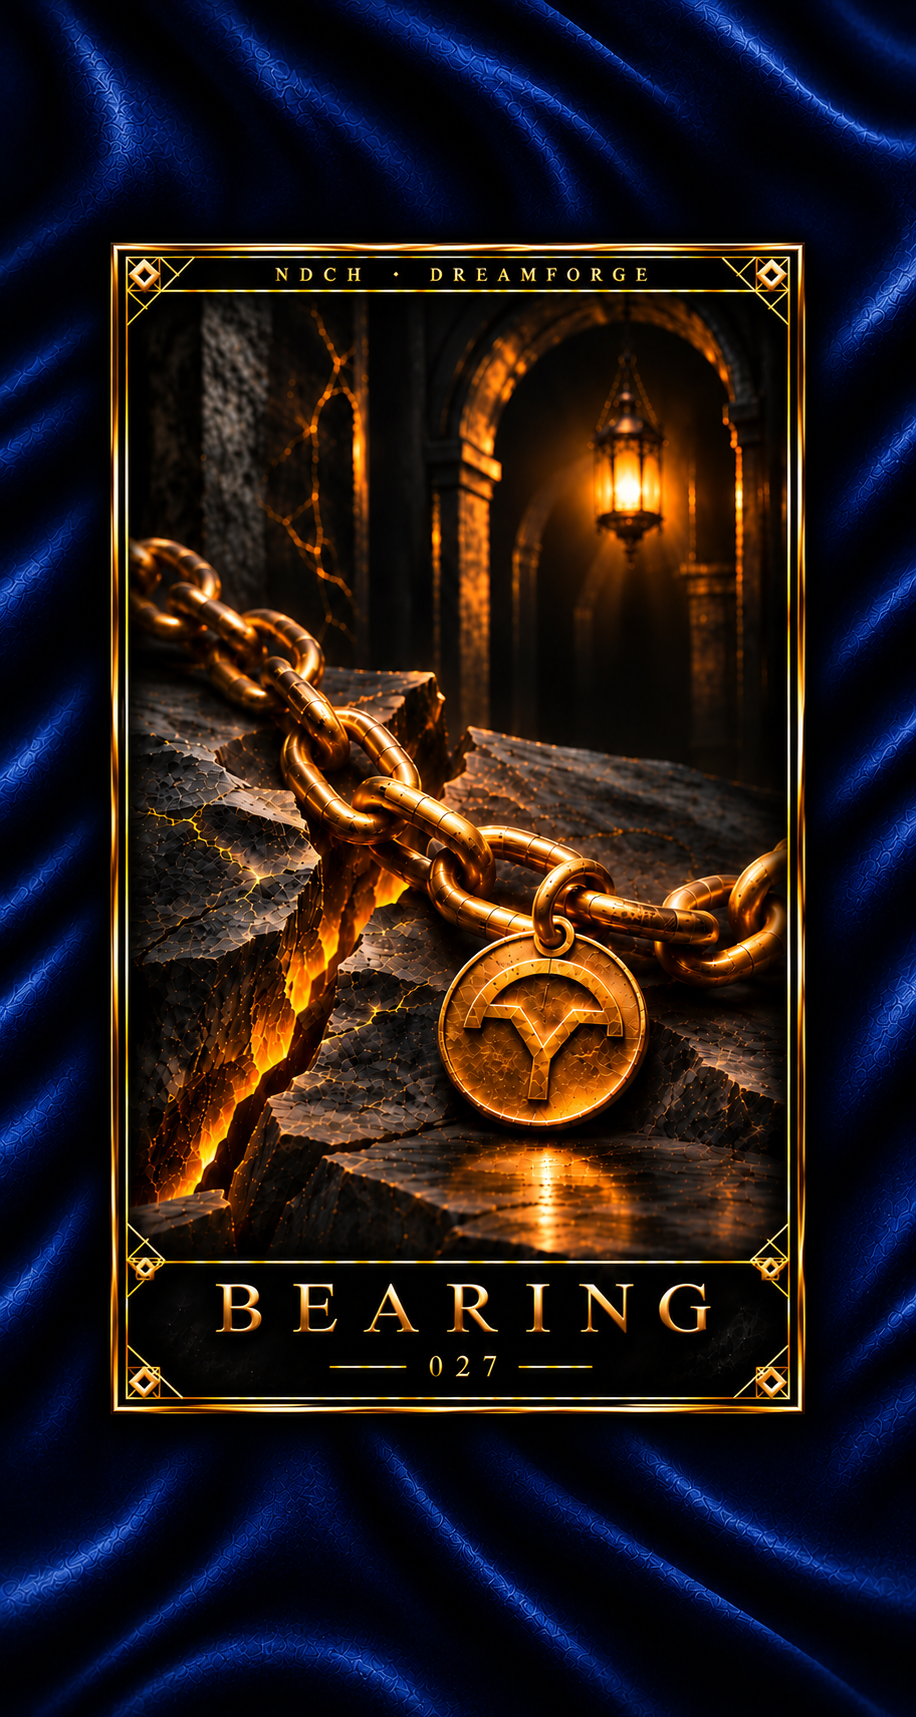
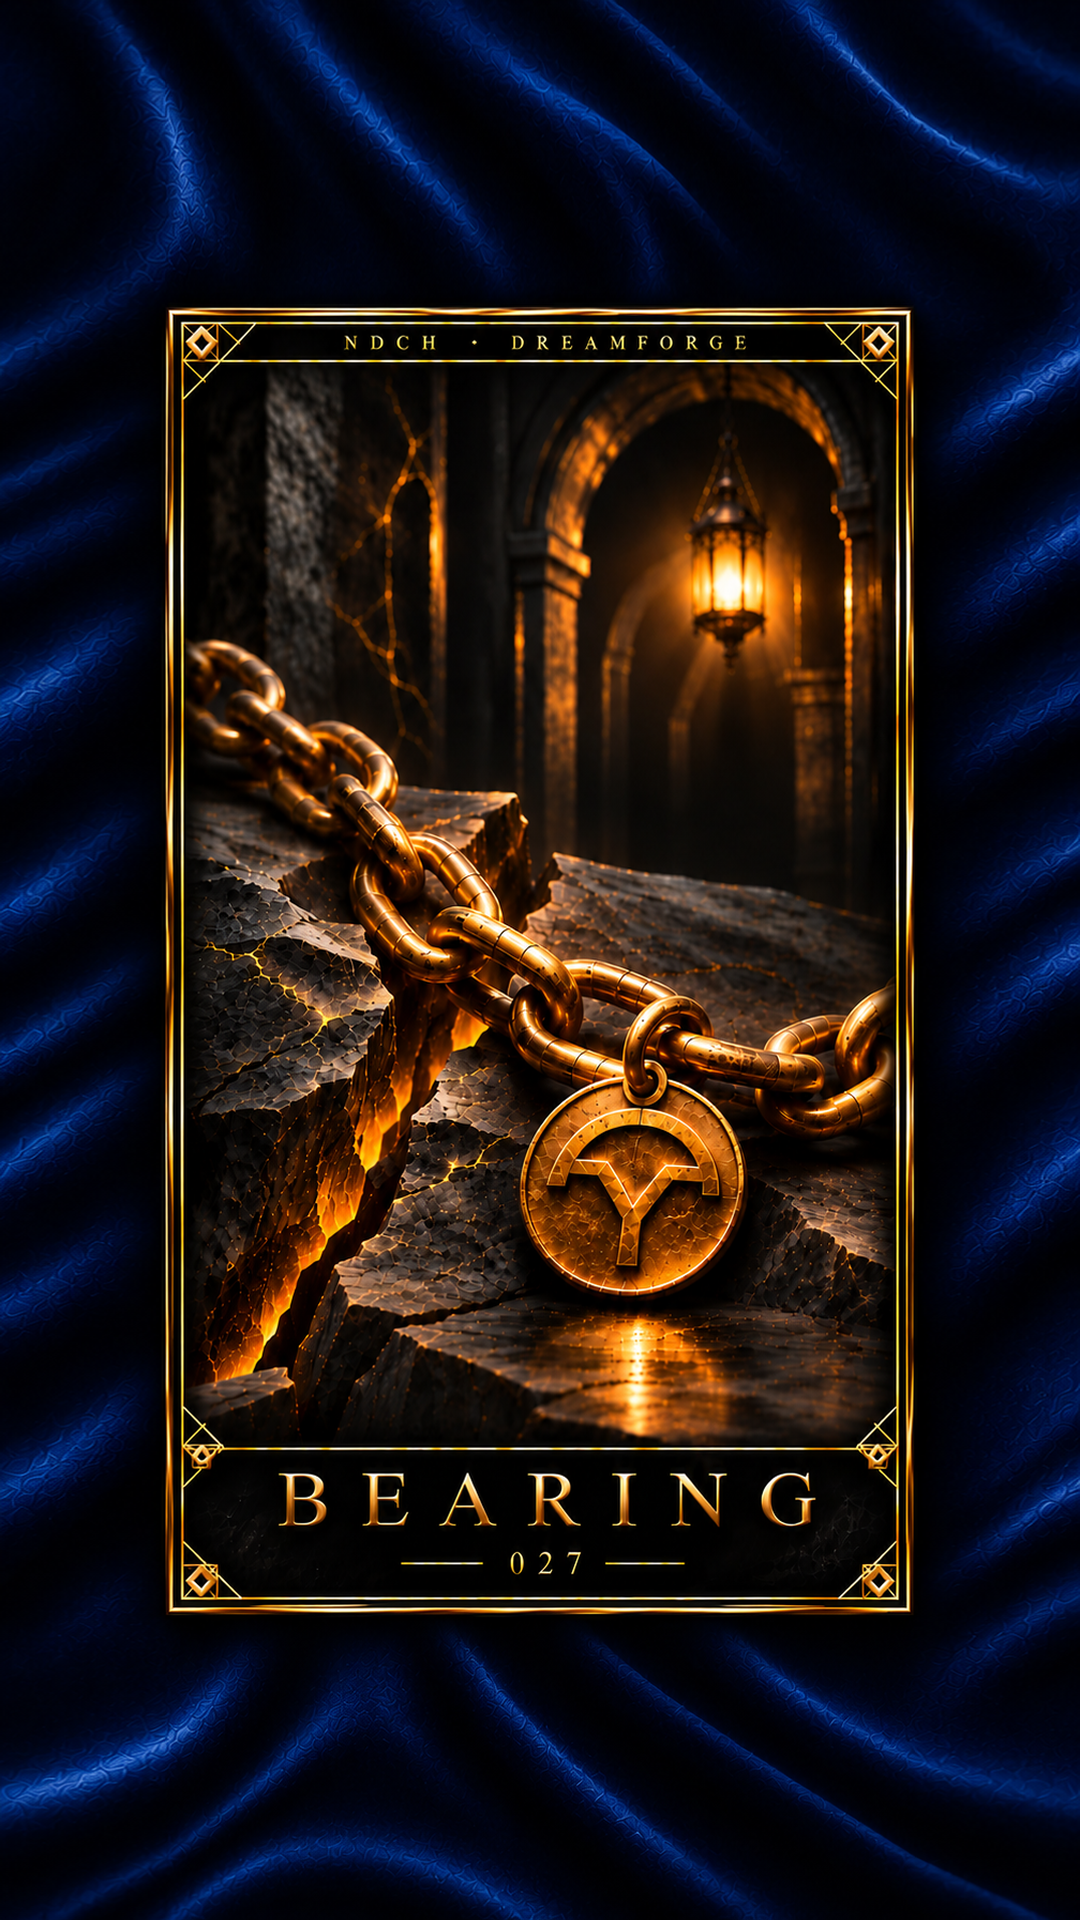
027 BEARING master cover (V2.0 geometry), gold-frame geometry check, symbol prompt (#227)
Claude-Session: https://claude.ai/code/session_018B2Xkx99ojEt22DjChFVnu

diff --git a/scripts/cover_geometry.py b/scripts/cover_geometry.py
@@ -6,8 +6,8 @@ Y 307-1613, fully inside the 1080x1440 grid-safe area.
 
     python3 scripts/cover_geometry.py assets/covers/030_RECEPTION_vertical.png [...]
 
-The plaque is found as the region where the blue velvet stops, measured on a 1080x1920 resample of
-the file. Exit code 0 when every file passes, 1 otherwise. Works on blue-velvet covers only.
+The plaque is measured by its outer gold frame lines (the outermost columns and rows that are gold
+along most of their length), on a 1080x1920 resample of the file. Exit code 0 when every file passes.
 """
 import json, sys
 from pathlib import Path
@@ -18,7 +18,7 @@ ROOT = Path(__file__).resolve().parent.parent
 SPEC = json.loads((ROOT / 'assets/covers/templates/dreamforge.json').read_text())
 
 
-def longest_run(mask):
+def _unused_longest_run(mask):
     idx = np.where(mask)[0]
     if len(idx) == 0:
         return None
@@ -34,12 +34,13 @@ def measure(path):
     im = Image.open(path).convert('RGB')
     native = im.size
     a = np.asarray(im.resize(tuple(SPEC['canvas']), Image.LANCZOS)).astype(int)
-    blue = (a[..., 2] > a[..., 0] + 15) & (a[..., 2] > 40)
-    xs = longest_run(blue[700:1300].mean(0) < 0.05)
-    ys = longest_run(blue[:, 400:680].mean(1) < 0.05)
-    if not xs or not ys:
+    R, G, B = a[..., 0], a[..., 1], a[..., 2]
+    gold = (R > 110) & (R > B + 45) & (G > B + 15) & (R - G < 110)
+    xs = np.where(gold[700:1300].mean(0) > 0.5)[0]
+    ys = np.where(gold[:, 380:700].mean(1) > 0.5)[0]
+    if not len(xs) or not len(ys):
         return native, None
-    return native, dict(x0=int(xs[0]), x1=int(xs[1]) + 1, y0=int(ys[0]), y1=int(ys[1]) + 1)
+    return native, dict(x0=int(xs.min()), x1=int(xs.max()) + 1, y0=int(ys.min()), y1=int(ys.max()) + 1)
 
 
 def check(path):

diff --git a/docs/symbols/SYMBOL_PROMPT.md b/docs/symbols/SYMBOL_PROMPT.md
@@ -1,0 +1,50 @@
+# Symbol prompt (reel critique + preview poster)
+
+The prompt NDCH uses in ChatGPT to critique a finished reel and design its symbol: the preview poster that sits beside the reel on the Instagram grid. Saved 2026-11-25 as written. Suggested additions follow it.
+
+## Prompt (as used)
+
+```text
+Review the attached reel, NDCH_REEL_[NNN]_[TITLE], and give me your honest creative critique in two parts.
+
+PART 1: The reel
+- Overall impression: concept, pacing, mood, and how clearly it communicates "[TITLE]."
+- Strongest moments and weakest moments, with timestamps where possible.
+- Visual consistency with the earlier NDCH reels in this project: palette, lighting, motion language, and symbolic tone.
+- Any edits you would make (cuts, timing, sound, text) to strengthen it.
+
+PART 2: The preview poster (SYMBOL)
+Design direction for a poster in the same series as the previous NDCH preview posters.
+
+The rule for the SYMBOL: it must relate to the reel's theme without literally depicting or explaining it. It should be a creative iteration, meaning an abstract, suggestive visual translation of the idea. It should not be an illustration of what happens in the reel.
+
+Please give me:
+1. 3 to 5 distinct symbol concepts for "[TITLE]." For each one, explain what it evokes and why it relates without telling.
+2. Your single recommended concept and why it is strongest.
+3. Composition guidance for the recommended concept: focal point, symbol scale and placement, negative space, depth and layering, lighting, color palette, and typography placement. Keep all of it consistent with the earlier posters.
+4. A final image-generation prompt for the recommended poster, ready to paste.
+
+Constraints:
+- Do not make the symbol literal. Avoid anything that directly shows the reel's content.
+- Keep the series identity: same framing logic, same level of restraint, same premium cinematic tone.
+- Flag anything in the reel or concept that feels too obvious, too busy, or off-series, and say how to fix it.
+
+Be direct and specific. Prioritize critique over praise.
+```
+
+## Suggested additions
+
+These cover what the process already expects but the prompt doesn't yet say. Paste them under Constraints.
+
+```text
+- The NDCH emblem (the arch-and-Y mark) must appear in the symbol, integrated into the scene as an object, inlay or light, never as a flat logo stamp.
+- No text, numbers or lettering anywhere in the symbol image.
+- Output format: 1080 × 1440 (3:4), so the Instagram grid shows the whole image.
+- Palette: black stone and warm antique gold, with one restrained accent at most. No new colors without a reason tied to the theme.
+- Before giving the final prompt, grade the recommended concept 1–10 on each of: not literal, series fidelity, emblem integration, restraint, readable at thumbnail size. Revise until every score is 8 or higher, then show the scores.
+- Also give the grid caption in this exact format:
+  NNN | TITLE
+  (blank line)
+  two short lines that echo the theme without explaining it
+  #NDCH plus up to 2 hashtags
+```
